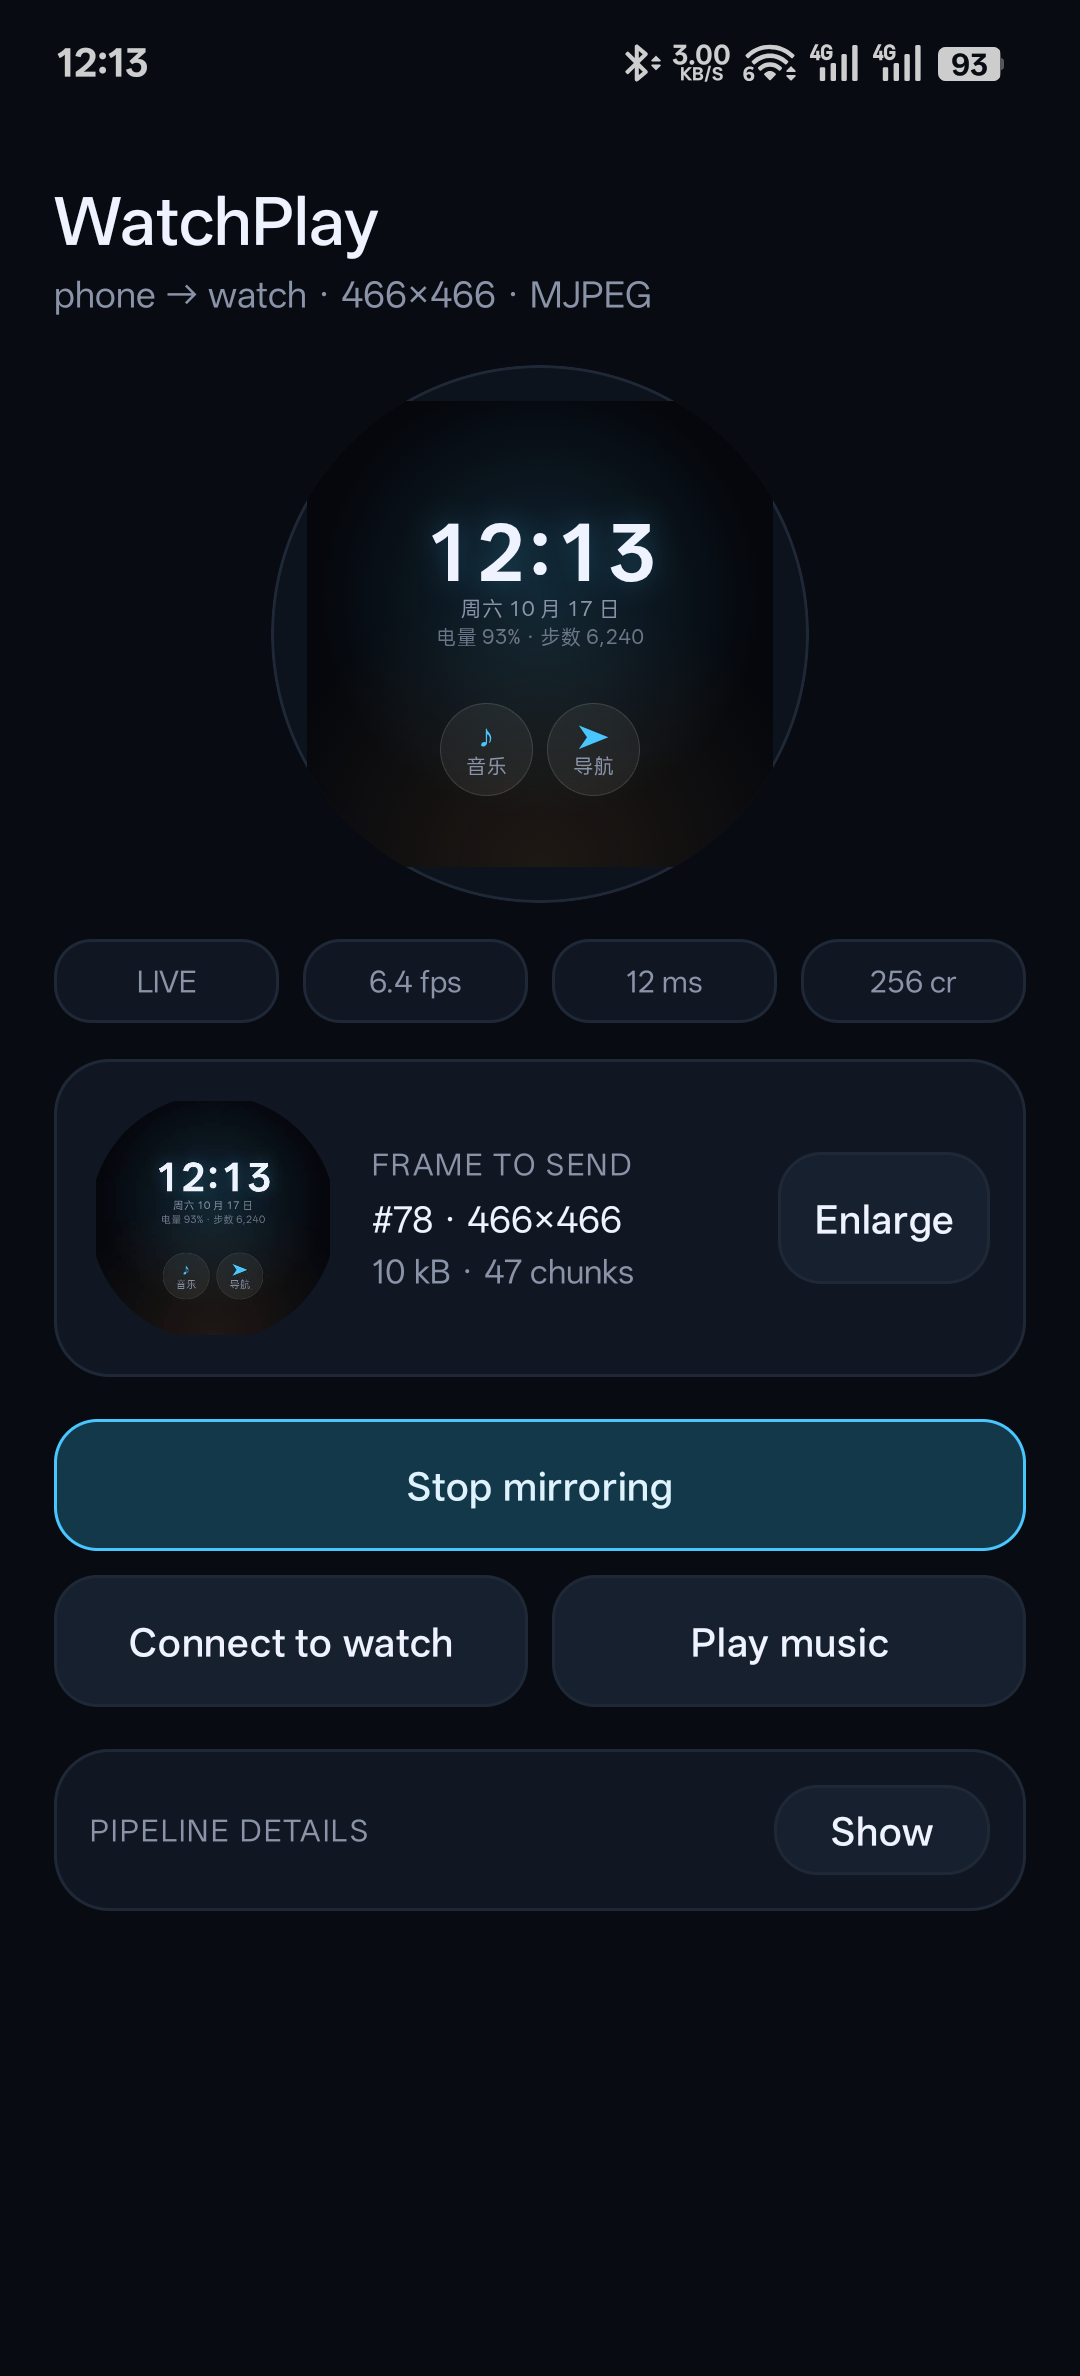
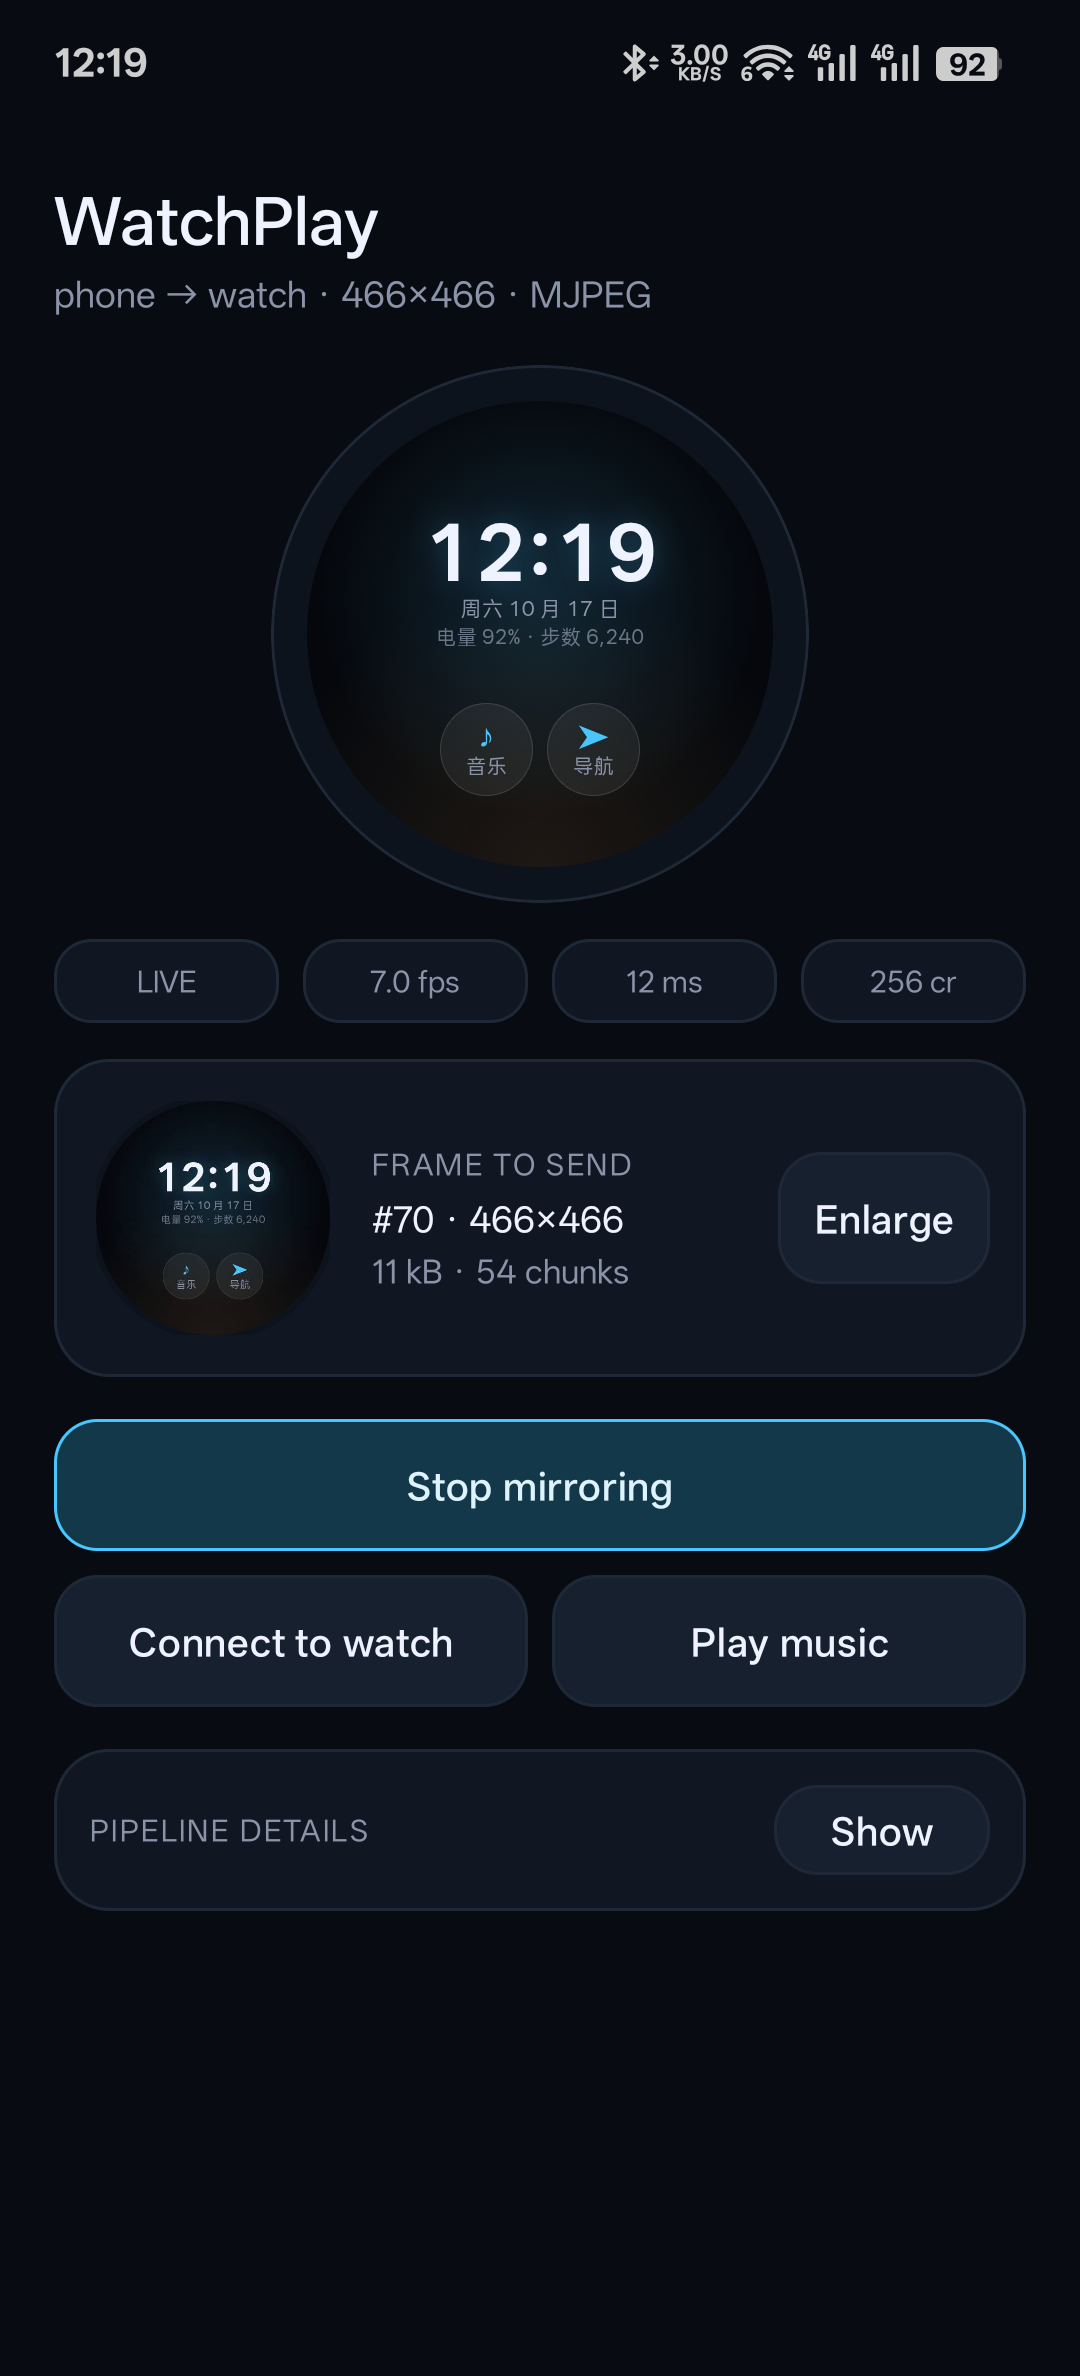
demo: clip the picture itself, and stop the command bridge from recursing
Two real bugs behind "the corners are still square" and "the music will not play".

The card was masked but the 466 px WebView inside it was not, and its corners are inset by the card's
12 dp padding — so the card's radius never reached them and the picture stayed a sharp rectangle.
`setPanelOutline` now clips the WebView to the panel's own outline. It has to be an outline provider
rather than a background drawable because `WebViewRenderModule` owns the view's background colour.
The card behind it then reads as a bezel ring, which is what a round panel actually looks like.

`SceneBridge` named its constructor callback `onControl`, the same name as the `@JavascriptInterface`
method, so `onControl(control)` inside the method resolved to the method itself: a single tap recursed
until the stack blew, and the app never heard it. Play/pause and next/previous from the scene were dead
on every build. The callback is `command` now, with a unit test that a command arrives exactly once.

diff --git a/android/demo/src/main/java/com/watchplay/demo/PanelOutline.kt b/android/demo/src/main/java/com/watchplay/demo/PanelOutline.kt
@@ -1,17 +1,50 @@
 package com.watchplay.demo
 
+import android.graphics.Outline
 import android.graphics.drawable.GradientDrawable
 import android.view.View
+import android.view.ViewOutlineProvider
 import com.watchplay.sdk.render.WatchLayoutSpec
 import com.watchplay.sdk.render.WatchScreenShape
+
+/**
+ * Clips [view] itself to the panel's outline, whatever its background is.
+ *
+ * This is what actually rounds the *picture*: the mirrored scene is a child of a padded card, so masking
+ * only the card leaves the 466 px rectangle inside it with four square corners — the card's own corner
+ * radius never reaches a child inset by 12 dp. An `OutlineProvider` clips the view's own drawing, so the
+ * WebView's corners follow the panel and the card's ring stays outside them.
+ *
+ * The outline is independent of the background, which matters because `WebViewRenderModule` owns the
+ * WebView's background colour (`setBackgroundColor`) and would replace a drawable-based mask.
+ */
+internal fun setPanelOutline(view: View, layout: WatchLayoutSpec) {
+    if (!WatchScreenShape.hasClippedCorners(layout)) {
+        view.outlineProvider = ViewOutlineProvider.BACKGROUND
+        view.clipToOutline = false
+        return
+    }
+    val circular = WatchScreenShape.isCircular(layout)
+    val radius = WatchScreenShape.cornerRadiusPx(layout)
+    view.outlineProvider = object : ViewOutlineProvider() {
+        override fun getOutline(target: View, outline: Outline) {
+            if (circular) {
+                outline.setOval(0, 0, target.width, target.height)
+            } else {
+                outline.setRoundRect(0, 0, target.width, target.height, radius)
+            }
+        }
+    }
+    view.clipToOutline = true
+}
 
 /**
  * Masks [view] with the outline of the watch panel it is previewing.
  *
  * On a round panel the corners of the square picture physically do not exist, so drawing it as a rounded
- * square is a lie the phone can see: this clips the view to the panel's own shape — a circle for a round
- * panel, the panel's corner radius for a rounded-rect, plain corners for a rectangular one
- * ([WatchScreenShape] explains where each radius comes from).
+ * square is a lie the phone can see: this gives the background — and therefore the view's own outline —
+ * the panel's shape, a circle for a round panel, the panel's corner radius for a rounded-rect, plain
+ * corners for a rectangular one ([WatchScreenShape] explains where each radius comes from).
  *
  * For the mirrored scene the mask is also the only thing that keeps the captured frame honest: `PixelCopy`
  * copies whatever the window composited inside the view's rect, so the clipped corners come back as the

diff --git a/android/demo/src/main/java/com/watchplay/demo/SceneBridge.kt b/android/demo/src/main/java/com/watchplay/demo/SceneBridge.kt
@@ -1,6 +1,5 @@
 package com.watchplay.demo
 
-import android.util.Log
 import android.webkit.JavascriptInterface
 
 /**
@@ -13,18 +12,16 @@ import android.webkit.JavascriptInterface
  *
  * The class is public because `addJavascriptInterface` reflects over public methods; a private or
  * anonymous type would silently expose nothing.
+ *
+ * @property command what to do with the command. **Not** named `onControl`: a constructor property and a
+ *   method may share a name, and then `onControl(control)` inside the method resolves to the *method* — an
+ *   infinite recursion that a tap turns into thousands of log lines and a `StackOverflowError`, with the
+ *   app never hearing a thing.
  */
-class SceneBridge(private val onControl: (String) -> Unit) {
+class SceneBridge(private val command: (String) -> Unit) {
 
     @JavascriptInterface
     fun onControl(control: String) {
-        // The bridge is reflection: a silent no-op here is indistinguishable from a scene that never
-        // clicked, so the one line that proves the wiring is worth keeping.
-        Log.i(TAG, "bridge: onControl($control)")
-        onControl(control)
-    }
-
-    private companion object {
-        const val TAG = "WatchPlayBridge"
+        command(control)
     }
 }

diff --git a/android/demo/src/test/java/com/watchplay/demo/SceneBridgeTest.kt b/android/demo/src/test/java/com/watchplay/demo/SceneBridgeTest.kt
@@ -1,0 +1,35 @@
+package com.watchplay.demo
+
+import org.junit.Assert.assertEquals
+import org.junit.Test
+
+/**
+ * The scene → app command bridge.
+ *
+ * A tap arrives as one `onControl` call from JavaScript; the app must see exactly one command. An earlier
+ * version named its constructor callback `onControl` too, so `onControl(control)` inside the method resolved
+ * to the method itself: every tap recursed until the stack blew, the app never heard it, and play/pause
+ * looked dead.
+ */
+class SceneBridgeTest {
+
+    @Test
+    fun `a command reaches the app exactly once`() {
+        val received = mutableListOf<String>()
+
+        SceneBridge { received += it }.onControl("play")
+
+        assertEquals(listOf("play"), received)
+    }
+
+    @Test
+    fun `every command is passed through verbatim`() {
+        val received = mutableListOf<String>()
+        val bridge = SceneBridge { received += it }
+
+        bridge.onControl("prev")
+        bridge.onControl("next")
+
+        assertEquals(listOf("prev", "next"), received)
+    }
+}

diff --git a/android/demo/src/main/java/com/watchplay/demo/MainActivity.kt b/android/demo/src/main/java/com/watchplay/demo/MainActivity.kt
@@ -170,6 +170,9 @@ class MainActivity :
 
         sceneView = createSceneWebView()
         layout = panelFrom(intent)
+        // The picture itself is a rectangle inside a padded card: without its own outline it keeps four
+        // square corners inside whatever shape the card has.
+        setPanelOutline(sceneView, layout)
         render = WebViewRenderModule(layout, this)
         render.attach(sceneView)
         // The scene turns a click on its controls into a command; see SceneBridge for why the touch path

diff --git a/README.md b/README.md
@@ -94,7 +94,7 @@ Android 与手表端构建见 [快速开始指南](docs/guides/getting-started.m
 
 | 里程碑 | 交付物 | 状态 |
 | :--- | :--- | :--- |
-| M1 | MJPEG 投屏 Demo | 手机端 SDK 与手表端 App 已实现（145 项 JVM 测试）；已在真机跑通 loopback：466×466 MJPEG @6–8 fps、`latency` 5–13 ms，Demo 内可看到即将发出的那一帧，卡片按屏幕形状裁切（圆屏裁成圆形、方屏按上报的安全区取圆角半径）。BLE 双机未联调 |
+| M1 | MJPEG 投屏 Demo | 手机端 SDK 与手表端 App 已实现（147 项 JVM 测试）；已在真机跑通 loopback：466×466 MJPEG @6–8 fps、`latency` 5–13 ms，Demo 内可看到即将发出的那一帧，画面与缩略图都按屏幕形状裁切（圆屏裁成圆形、方屏按上报的安全区取圆角半径）。BLE 双机未联调 |
 | M2 | 地图导航 + 音乐播放 | 场景三页已能互切；时间、电量、导航转向由手机每秒推送；音乐播的是手机自己的曲库（`MediaStore` + `MediaPlayer`），封面取曲目的内嵌图、以 96×96 `data:` URI 推给场景，手表上的播控回传生效。导航仍是脚本路线而非路径规划 |
 | M3 | H.264 + Wi-Fi 通道 | Wi-Fi 与经典蓝牙承载：规范已定，无实现；H.264：编码器是桩，且无硬解参考硬件 |
 | M4 | Android SDK | 可构建（67 项 JVM 测试），未发布 |

diff --git a/AGENTS.md b/AGENTS.md
@@ -39,7 +39,7 @@ python tools/render_diagrams.py      # the only script that needs the network
 ```
 
 Android lives in `android/`: `./gradlew :sdk:assembleDebug :sdk:test` (129 JVM tests) and
-`./gradlew :demo:test` (16 more, the demo app's data contract), plus `:demo:assembleDebug` and
+`./gradlew :demo:test` (18 more, the demo app's data contract), plus `:demo:assembleDebug` and
 `:sink:assembleDebug` for the two apps. JDK 17 + SDK 34.
 
 ## Changes that must travel together
